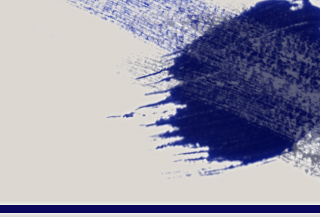
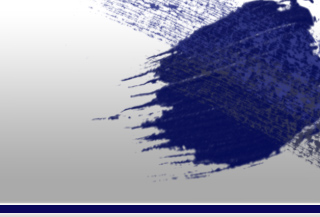
Front 1920 wide - Picasso
Adding some extra touches :
- gradient effect in the top and bottom bar,
- Invader watermark background when wider than 1920

diff --git a/Website/AtariLegend/templates/2/css/style.css b/Website/AtariLegend/templates/2/css/style.css
@@ -42,7 +42,7 @@ body { background: #dbd7d1;
 
 @media screen and (min-width: 1921px) { 
 	body { 	background-image: url(../../../templates/2/images/top_bg_sides.jpg), url(../../../templates/2/images/top_bg_menu.jpg), url(../../../templates/2/images/main_bg.png), url(../../../templates/2/images/main_bg.png); 
-			background-position: left top, left 220px, -3% 45%, 95% 125%, left top;
+			background-position: left top, left 220px, -3% 45%, 110% 135%, left top;
 			background-repeat: repeat-x, repeat-x, no-repeat, no-repeat;
 		}
 }
@@ -1459,6 +1459,7 @@ contact tiles - front page
 .footer{ width: 100%;
 		float: left;	
 		border-top: 10px solid #161c71;
+		background: url(../images/bottom_bg_sides.jpg) left 0 repeat-x;
 	}
 
 .footer_logo{ color: white;
